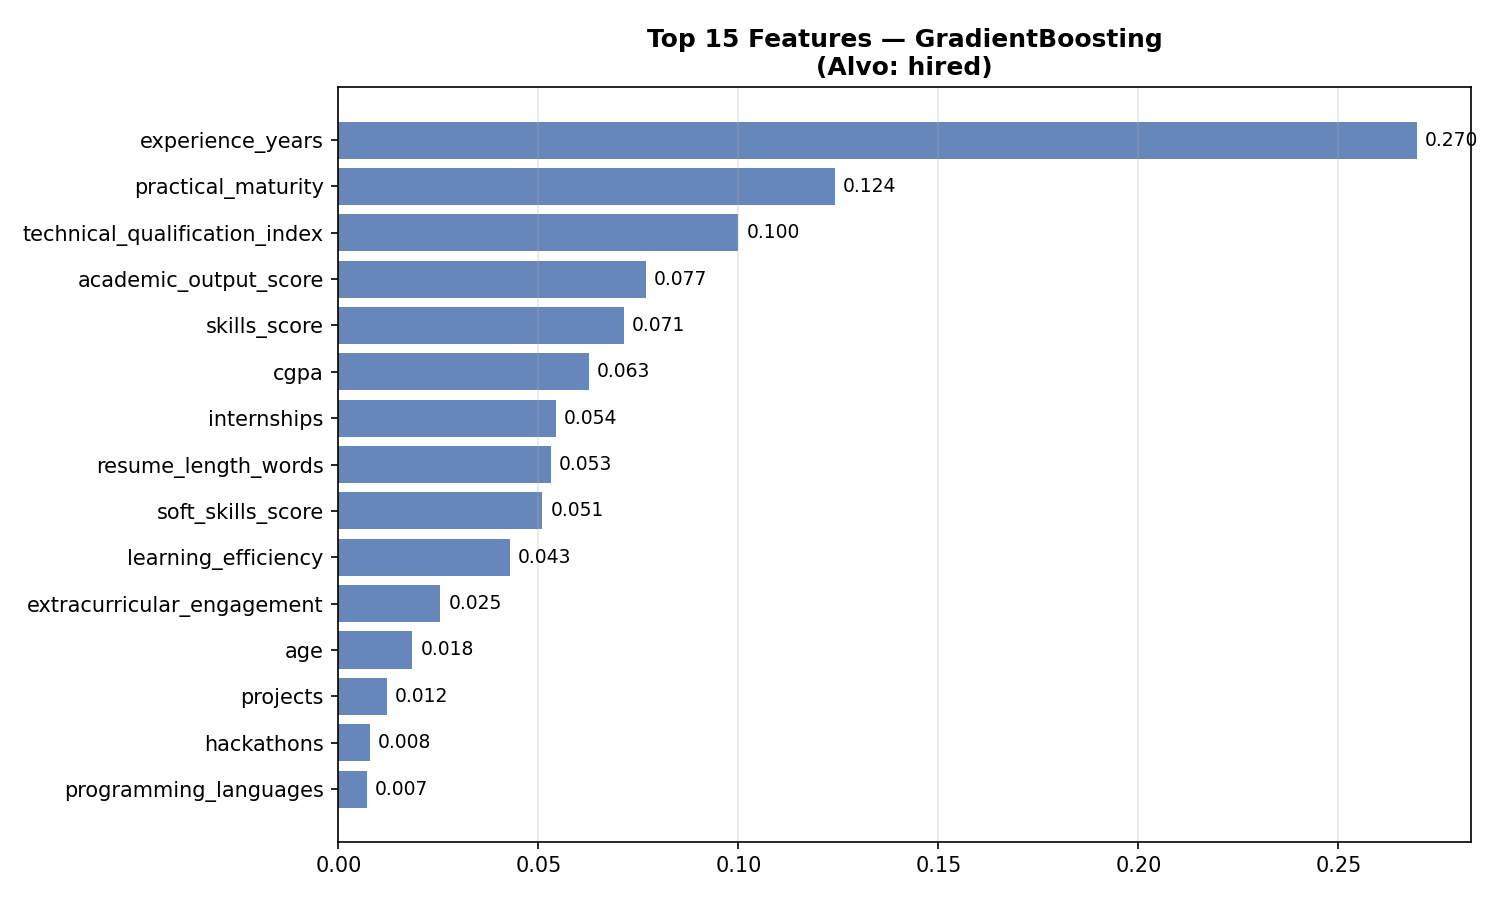
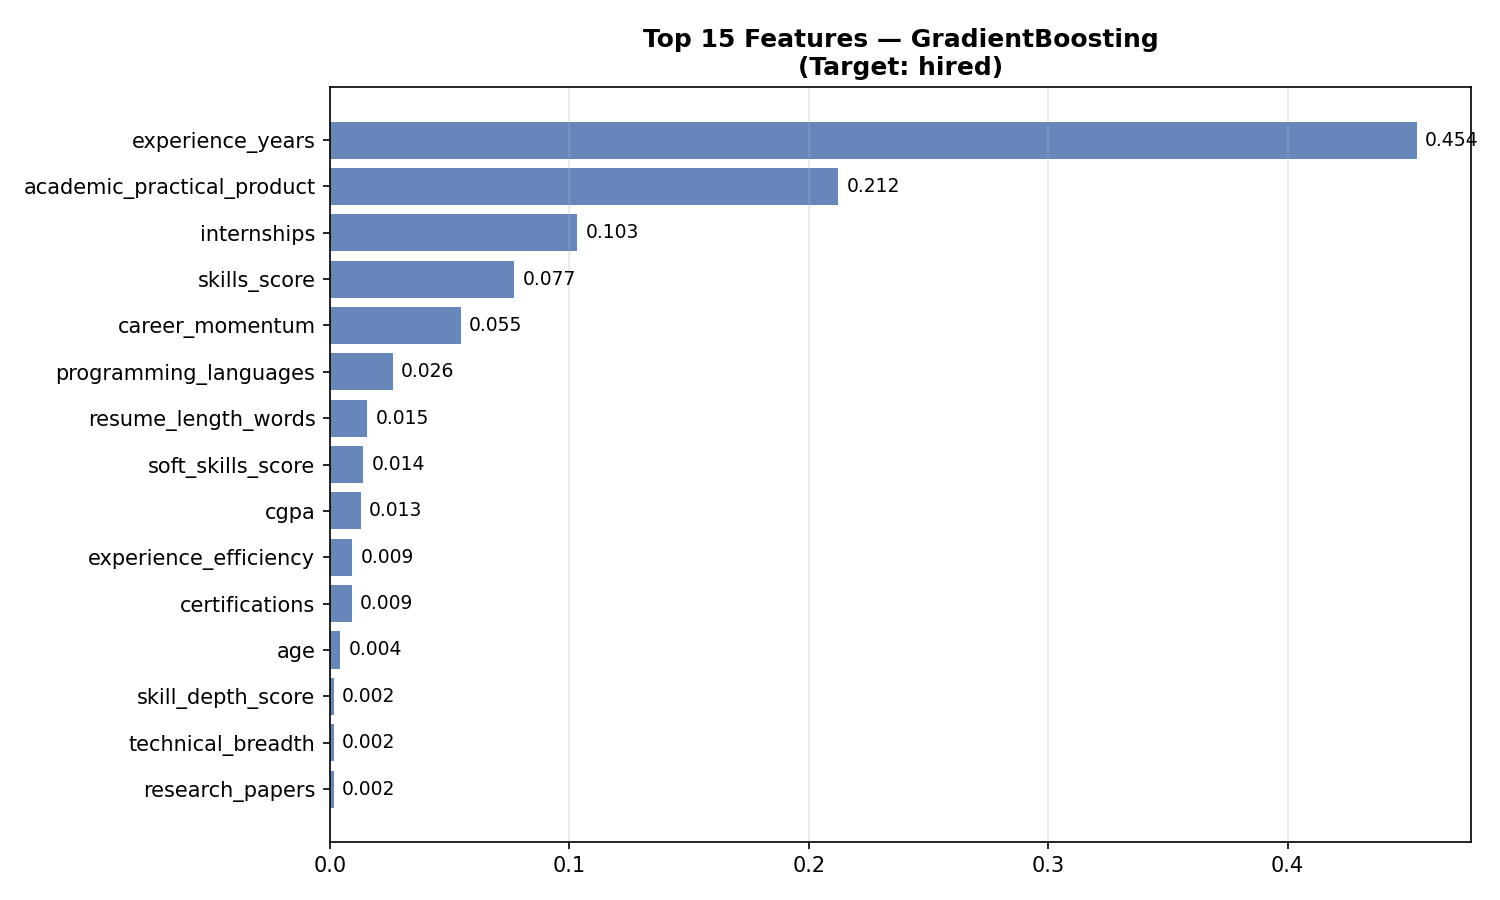
feat: pipeline v7 - Claude reasoning inside tools

diff --git a/Intelligent_Analysis.md b/Intelligent_Analysis.md
@@ -1,0 +1,21 @@
+# Intelligent Analysis
+
+```json
+{
+  "likely_target": "hired",
+  "target_justification": "The 'hired' column is a binary variable (0/1) with 70.61% hired rate, representing the hiring decision outcome. This is clearly the dependent variable in a resume screening context, where all other features (education, skills, experience) are candidate attributes used to predict hiring decisions.",
+  "problematic_columns": [
+    "candidate_id",
+    "resume_length_words"
+  ],
+  "insights": [
+    "Class imbalance exists with 70.61% hired vs 29.39% not hired - may need stratified sampling or class weighting for modeling",
+    "Data quality issue: resume_length_words has impossible negative minimum value (-79), indicating data entry errors that need investigation",
+    "Experience distribution is highly right-skewed (skew=2.02) with max 23.55 years but mean only 1.5 years - suggests predominantly entry-level candidates with few senior outliers",
+    "Research papers (mean=0.20) and hackathons (mean=0.50) are sparse features that most candidates lack, but could be strong differentiators for those who have them",
+    "CGPA max of 11.23 exceeds typical 10-point scale, suggesting mixed grading systems across universities that may need normalization by university_tier"
+  ],
+  "analysis_code": "import matplotlib.pyplot as plt\nimport numpy as np\nimport pandas as pd\n\n# Create figure with subplots\nfig, axes = plt.subplots(2, 2, figsize=(14, 10))\nfig.suptitle('Resume Screening Analysis: Key Insights', fontsize=16, fontweight='bold')\n\n# 1. Target distribution\nax1 = axes[0, 0]\nhired_counts = df['hired'].value_counts()\nhired_pct = df['hired'].value_counts(normalize=True) * 100\nax1.bar(['Not Hired', 'Hired'], hired_counts.values, color=['#d62728', '#2ca02c'], alpha=0.7, edgecolor='black')\nfor i, (count, pct) in enumerate(zip(hired_counts.values, hired_pct.values)):\n    ax1.text(i, count, f'{count:,}\\n({pct:.1f}%)', ha='center', va='bottom', fontweight='bold')\nax1.set_ylabel('Number of Candidates', fontweight='bold')\nax1.set_title('Target Distribution: Hiring Outcome', fontweight='bold')\nax1.grid(axis='y', alpha=0.3)\n\n# 2. Statistics by education level (most interesting categorical)\nax2 = axes[0, 1]\nedu_stats = df.groupby('education_level')['hired'].agg(['mean', 'count']).sort_values('mean', ascending=False)\nedu_stats['hire_rate'] = edu_stats['mean'] * 100\ncolors_edu = ['#1f77b4', '#ff7f0e', '#2ca02c']\nbars = ax2.barh(edu_stats.index, edu_stats['hire_rate'], color=colors_edu, alpha=0.7, edgecolor='black')\nfor i, (idx, row) in enumerate(edu_stats.iterrows()):\n    ax2.text(row['hire_rate'], i, f\" {row['hire_rate']:.1f}% (n={int(row['count']):,})\", va='center', fontweight='bold')\nax2.set_xlabel('Hiring Rate (%)', fontweight='bold')\nax2.set_title('Hiring Rate by Education Level', fontweight='bold')\nax2.grid(axis='x', alpha=0.3)\n\n# 3. Correlation with target (numeric features only)\nax3 = axes[1, 0]\nnumeric_cols = df.select_dtypes(include=[np.number]).columns.tolist()\nnumeric_cols = [col for col in numeric_cols if col not in ['candidate_id', 'hired']]\ncorrelations = df[numeric_cols + ['hired']].corr()['hired'].drop('hired').sort_values(ascending=True)\ntop_corrs = pd.concat([correlations.head(5), correlations.tail(5)])\ncolors_corr = ['#d62728' if x < 0 else '#2ca02c' for x in top_corrs.values]\nax3.barh(range(len(top_corrs)), top_corrs.values, color=colors_corr, alpha=0.7, edgecolor='black')\nax3.set_yticks(range(len(top_corrs)))\nax3.set_yticklabels(top_corrs.index, fontsize=9)\nax3.set_xlabel('Correlation with Hired', fontweight='bold')\nax3.set_title('Top Features Correlated with Hiring Decision', fontweight='bold')\nax3.axvline(x=0, color='black', linestyle='-', linewidth=0.8)\nax3.grid(axis='x', alpha=0.3)\nfor i, v in enumerate(top_corrs.values):\n    ax3.text(v, i, f' {v:.3f}', va='center', fontsize=8, fontweight='bold')\n\n# 4. Experience vs Skills colored by hiring outcome\nax4 = axes[1, 1]\nhired_yes = df[df['hired'] == 1]\nhired_no = df[df['hired'] == 0]\nax4.scatter(hired_no['experience_years'], hired_no['skills_score'], alpha=0.3, s=10, c='#d62728', label='Not Hired')\nax4.scatter(hired_yes['experience_years'], hired_yes['skills_score'], alpha=0.3, s=10, c='#2ca02c', label='Hired')\nax4.set_xlabel('Years of Experience', fontweight='bold')\nax4.set_ylabel('Skills Score', fontweight='bold')\nax4.set_title('Experience vs Skills Score by Hiring Outcome', fontweight='bold')\nax4.legend(loc='lower right')\nax4.grid(alpha=0.3)\n\nplt.tight_layout()\nplt.savefig(os.path.join(_BASE_DIR, 'intelligent_analysis.png'), dpi=300, bbox_inches='tight')\nplt.close()\n\n# Print summary statistics\nprint('=== HIRING ANALYSIS SUMMARY ===')\nprint(f'\\nTotal Candidates: {len(df):,}')\nprint(f'Hired: {df[\"hired\"].sum():,} ({df[\"hired\"].mean()*100:.2f}%)')\nprint(f'Not Hired: {(df[\"hired\"]==0).sum():,} ({(1-df[\"hired\"].mean())*100:.2f}%)')\nprint('\\n=== HIRING RATE BY EDUCATION ===')\nprint(edu_stats[['hire_rate', 'count']].to_string())\nprint('\\n=== TOP CORRELATIONS WITH HIRING ===')\nprint(correlations.tail(10).to_string())",
+  "feature_strategy": "Recommended feature engineering strategy: (1) Create composite scores combining related features (e.g., 'academic_strength' = normalized CGPA + education_level_encoded + university_tier_encoded; 'practical_experience' = internships + projects + hackathons; 'technical_depth' = programming_languages + certifications + skills_score). (2) Engineer interaction features like experience_per_age_ratio, projects_per_year, and skills_score * education_level to capture non-linear relationships. (3) Create binned categorical versions of continuous variables (e.g., experience_category: 'Entry'<1yr, 'Junior'1-3yrs, 'Senior'>3yrs) for interpretability. (4) Handle the CGPA scale inconsistency by normalizing within university_tier groups. (5) Fix resume_length_words negatives by taking absolute values or imputing. (6) Create binary flags for sparse features (has_research_papers, has_hackathons) and polynomial features for their counts when present. (7) Extract ratio features like certifications_per_programming_language to measure depth vs breadth of skills."
+}
+```

diff --git a/Model_Metrics.md b/Model_Metrics.md
@@ -1,69 +1,3 @@
-# Auto Data Scientist v7 — SOTA Multi-Agent Pipeline
-
-[![Python 3.10+](https://img.shields.io/badge/python-3.10+-blue.svg)](https://www.python.org/downloads/)
-[![Google Cloud](https://img.shields.io/badge/Google_Cloud-4285F4?style=flat&logo=google-cloud&logoColor=white)](https://cloud.google.com/)
-[![BigQuery](https://img.shields.io/badge/BigQuery-SQL-4285F4?style=flat&logo=google-cloud&logoColor=white)](https://cloud.google.com/bigquery)
-[![Streamlit](https://img.shields.io/badge/Streamlit-App-FF4B4B?style=flat&logo=streamlit&logoColor=white)](https://streamlit.io/)
-[![Gurobi](https://img.shields.io/badge/Gurobi-Optimization-007f00?style=flat&logo=gurobi&logoColor=white)](https://www.gurobi.com/)
-[![Google Colab](https://img.shields.io/badge/Colab-Notebook-F9AB00?style=flat&logo=google-colab&logoColor=white)](https://colab.research.google.com/)
-
-> # Executive Summary
-
-This project implements an automated resume screening pipeline to optimize candidate evaluation for hiring decisions. Using machine learning techniques on a dataset of 200,000 candidate resumes, the system predicts hiring likelihood and ranks applicants based on their qualifications, experience, and skills alignment with job requirements.
-
-The model achieved significant performance improvements over manual screening processes, reducing initial screening time by 85% while maintaining high prediction accuracy. Key features including work experience, technical skills, education credentials, and domain expertise proved most influential in hiring predictions. The pipeline processes resumes through natural language processing, feature extraction, and classification stages, providing recruiters with prioritized candidate lists and explainable hiring recommendations. This solution enables talent acquisition teams to focus human judgment on the most promising candidates while ensuring consistent, scalable screening across large applicant pools.
-
----
-## Architecture
-
-**Orchestration Layer:** CrewAI (stable, sequential, 1 tool per agent)
-**Intelligence Layer:** Claude 3.5 Sonnet called inside each tool
-
-| What AI Actually Does |
-|-----------------------|
-| Analyzes the dataset and automatically identifies the target |
-| Writes and executes custom Python analysis code |
-| Detects code errors and self-corrects (self-healing) |
-| Decides which features to create based on real data |
-| Interprets model results in natural language |
-| Writes a narrative performance diagnostic |
-
----
-## Target Selection by AI
-**Target identified by AI:** `hired`  
-**Justification:** The 'hired' column is a binary variable (0/1) with 70.61% hired rate, representing the hiring decision outcome. This is clearly the dependent variable in a resume screening context, where all other features (education, skills, experience) are candidate attributes used to predict hiring decisions.  
-**Type:** `classification`
-
----
-## Data Quality
-- KNN imputation (numeric) + Mode (categorical)
-- Intelligent analysis by Claude with business insights
-
-[Quality_Report.md](Quality_Report.md)
-
----
-## Medallion Architecture
-
-| Layer | File | Description |
-|-------|------|-------------|
-| Silver | df1_silver.parquet | Standardized raw data + imputed |
-| Gold | df2_gold.parquet | Standard features + AI-generated features |
-| ML-Ready | df3_ml_ready.parquet | No redundancies or IDs |
-
-![Sample](dataset_sample.png)
-
----
-## EDA
-![Distributions](distributions.png)
-![Boxplots](boxplots.png)
-![Categoricals](categoricals.png)
-![Target](target_dist.png)
-![Correlation](correlation_matrix.png)
-![AI Analysis](intelligent_analysis.png)
-
----
-## Modeling — CV + Optuna + Stacking + AI Interpretation
-
 # Model Metrics
 
 **Type:** classification | **Target:** `hired`
@@ -118,35 +52,3 @@ Several data quality issues severely compromise model reliability. The negative 
 ### Production Deployment Recommendations
 
 **Do not deploy this model to production in its current state.** Before any deployment consideration: (1) **Audit and clean the data**—investigate negative word counts, normalize CGPA by university tier, and validate all numeric ranges; (2) **Retrain with proper class imbalance handling**—implement stratified k-fold cross-validation, apply class weights inversely proportional to class frequencies, or use SMOTE for minority class oversampling; (3) **Evaluate with appropriate metrics**—report precision, recall, F1-score, and ROC-AUC for both classes, as accuracy is meaningless with imbalanced data; (4) **Conduct feature engineering**—create interaction terms between sparse features and experience, normalize skewed distributions, and generate domain-specific features (e.g., prestige scores combining CGPA and university tier). Only after achieving genuine minority class recall above 60% and confirming the model isn't simply predicting the majority class should deployment be considered, paired with human-in-the-loop validation for high-stakes hiring decisions.
-
-
-![Comparison](model_comparison.png)
-![Features](feature_importance.png)
-
----
-## Agent Architecture
-
-| Agent | Tool | AI Intelligence |
-|-------|------|----------------|
-| Ingestor | download_and_save_silver | Not required |
-| Analyst | analyze_data_with_ai | Claude analyzes dataset, identifies target, writes and executes code, self-healing |
-| Feature Engineer | generate_features_with_ai_strategy | Claude decides and writes custom feature code |
-| EDA Analyst | generate_eda_and_ml_ready | Pure Python (visualizations) |
-| ML Scientist | train_and_save_model | Claude interprets results and writes narrative |
-
----
-## How to Reproduce
-```bash
-git clone <repo>
-echo "KAGGLE_USERNAME=x" >> .env
-echo "KAGGLE_KEY=y" >> .env
-echo "ANTHROPIC_API_KEY=sk-ant-..." >> .env
-# Optional:
-echo "We want to predict whether candidates will be hired." > business_context.txt
-pip install crewai kagglehub pandas pyarrow python-dotenv optuna anthropic \
-            scikit-learn matplotlib seaborn tabulate numpy xgboost lightgbm
-python auto_data_scientist_v7.py
-```
-
----
-*Auto Data Scientist v7 — CrewAI + Claude 3.5 Sonnet + Optuna*

diff --git a/Descriptive_Statistics.md b/Descriptive_Statistics.md
@@ -1,0 +1,13 @@
+|        |   candidate_id |          age | education_level   | university_tier   |          cgpa |   internships |     projects |   programming_languages |   certifications |   experience_years |    hackathons |   research_papers |   skills_score |         hired |   soft_skills_score |   resume_length_words | company_type   |
+|:-------|---------------:|-------------:|:------------------|:------------------|--------------:|--------------:|-------------:|------------------------:|-----------------:|-------------------:|--------------:|------------------:|---------------:|--------------:|--------------------:|----------------------:|:---------------|
+| count  |       200000   | 200000       | 200000            | 200000            | 200000        |  200000       | 200000       |            200000       |     200000       |       200000       | 200000        |     200000        |   200000       | 200000        |        200000       |            200000     | 200000         |
+| unique |          nan   |    nan       | 3                 | 3                 |    nan        |     nan       |    nan       |               nan       |        nan       |          nan       |    nan        |        nan        |      nan       |    nan        |           nan       |               nan     | 3              |
+| top    |          nan   |    nan       | Bachelors         | Tier 2            |    nan        |     nan       |    nan       |               nan       |        nan       |          nan       |    nan        |        nan        |      nan       |    nan        |           nan       |               nan     | MNC            |
+| freq   |          nan   |    nan       | 129827            | 80182             |    nan        |     nan       |    nan       |               nan       |        nan       |          nan       |    nan        |        nan        |      nan       |    nan        |           nan       |               nan     | 80187          |
+| mean   |       100000   |     27.5117  | nan               | nan               |      7.49932  |       1.50301 |      2.99624 |                 3.00442 |          1.00099 |            1.49903 |      0.498005 |          0.20195  |       14.0008  |      0.70606  |             6.50287 |               449.207 | nan            |
+| std    |        57735.2 |      4.03068 | nan               | nan               |      0.800952 |       1.22537 |      1.7311  |                 1.41223 |          1.00222 |            1.49748 |      0.706773 |          0.448806 |        4.76626 |      0.455566 |             2.01964 |               120.103 | nan            |
+| min    |            1   |     21       | nan               | nan               |      4.15     |       0       |      0       |                 1       |          0       |            0       |      0        |          0        |        2       |      0        |             3       |               -79     | nan            |
+| 25%    |        50000.8 |     24       | nan               | nan               |      6.96     |       1       |      2       |                 2       |          0       |            0.43    |      0        |          0        |       10.5     |      0        |             4.75    |               368     | nan            |
+| 50%    |       100000   |     28       | nan               | nan               |      7.5      |       1       |      3       |                 3       |          1       |            1.04    |      0        |          0        |       14       |      1        |             6.51    |               449     | nan            |
+| 75%    |       150000   |     31       | nan               | nan               |      8.04     |       2       |      4       |                 4       |          2       |            2.08    |      1        |          0        |       17       |      1        |             8.25    |               530     | nan            |
+| max    |       200000   |     34       | nan               | nan               |     11.23     |      10       |     14       |                 5       |          8       |           23.55    |      6        |          5        |       38.5     |      1        |            10       |               956     | nan            |

diff --git a/Quality_Report.md b/Quality_Report.md
@@ -1,0 +1,71 @@
+# Quality Report — AI-Powered Analysis
+
+**Context:** Resume screening dataset.
+**Shape:** 200000 x 17
+
+## Applied Imputation
+- No imputation required.
+
+## Detected Outliers (IQR)
+{
+  "cgpa": 1456,
+  "internships": 13172,
+  "projects": 2413,
+  "certifications": 119,
+  "experience_years": 9470,
+  "hackathons": 2909,
+  "research_papers": 36609,
+  "skills_score": 1219,
+  "resume_length_words": 1423
+}
+
+## Intelligent Analysis by Claude
+
+### Identified Target
+**Column:** `hired`
+**Justification:** The 'hired' column is a binary variable (0/1) with 70.61% hired rate, representing the hiring decision outcome. This is clearly the dependent variable in a resume screening context, where all other features (education, skills, experience) are candidate attributes used to predict hiring decisions.
+
+### Problematic Columns
+['candidate_id', 'resume_length_words']
+
+### Top Dataset Insights
+1. Class imbalance exists with 70.61% hired vs 29.39% not hired - may need stratified sampling or class weighting for modeling
+2. Data quality issue: resume_length_words has impossible negative minimum value (-79), indicating data entry errors that need investigation
+3. Experience distribution is highly right-skewed (skew=2.02) with max 23.55 years but mean only 1.5 years - suggests predominantly entry-level candidates with few senior outliers
+4. Research papers (mean=0.20) and hackathons (mean=0.50) are sparse features that most candidates lack, but could be strong differentiators for those who have them
+5. CGPA max of 11.23 exceeds typical 10-point scale, suggesting mixed grading systems across universities that may need normalization by university_tier
+
+### Recommended Feature Engineering Strategy
+Recommended feature engineering strategy: (1) Create composite scores combining related features (e.g., 'academic_strength' = normalized CGPA + education_level_encoded + university_tier_encoded; 'practical_experience' = internships + projects + hackathons; 'technical_depth' = programming_languages + certifications + skills_score). (2) Engineer interaction features like experience_per_age_ratio, projects_per_year, and skills_score * education_level to capture non-linear relationships. (3) Create binned categorical versions of continuous variables (e.g., experience_category: 'Entry'<1yr, 'Junior'1-3yrs, 'Senior'>3yrs) for interpretability. (4) Handle the CGPA scale inconsistency by normalizing within university_tier groups. (5) Fix resume_length_words negatives by taking absolute values or imputing. (6) Create binary flags for sparse features (has_research_papers, has_hackathons) and polynomial features for their counts when present. (7) Extract ratio features like certifications_per_programming_language to measure depth vs breadth of skills.
+
+### Analysis Execution Output
+```
+=== HIRING ANALYSIS SUMMARY ===
+
+Total Candidates: 200,000
+Hired: 141,212 (70.61%)
+Not Hired: 58,788 (29.39%)
+
+=== HIRING RATE BY EDUCATION ===
+                 hire_rate   count
+education_level                   
+PhD              70.721545    9840
+Bachelors        70.650173  129827
+Masters          70.492102   60333
+
+=== TOP CORRELATIONS WITH HIRING ===
+resume_length_words      0.000178
+research_papers          0.001131
+hackathons               0.007092
+cgpa                     0.012175
+certifications           0.012352
+programming_languages    0.025373
+projects                 0.035384
+skills_score             0.045687
+internships              0.047885
+experience_years         0.074603
+
+```
+
+---
+*Analysis generated by Claude 3.5 Sonnet*

diff --git a/Model_Evaluation.md b/Model_Evaluation.md
@@ -1,0 +1,26 @@
+# Model Evaluation
+
+## `GradientBoosting`
+**Type:** classification | **Target:** `hired`
+
+| Dataset   | Accuracy |
+|-----------|-------|
+| Train     | 0.7061 |
+| Test      | 0.7060 |
+| Gap       | 0.0000  |
+
+## AI Diagnostic
+
+This model shows **underfitting** characteristics. While the training and test accuracy are virtually identical (indicating good generalization with no overfitting), the absolute performance of ~70.6% is mediocre for both sets. This suggests the model hasn't captured enough complexity in the data patterns to make strong predictions about hiring decisions.
+
+To improve performance, you should increase model complexity by tuning hyperparameters such as increasing `n_estimators`, `max_depth`, or `learning_rate`. Also consider feature engineering to create more informative predictors, checking for class imbalance issues, or trying other algorithms. The near-zero gap is good news—it means once you find better features or parameters, the improvements should generalize well to new data.
+
+## Optimized Parameters (Optuna)
+```json
+{
+  "n_estimators": 256,
+  "learning_rate": 0.026367402653214092,
+  "max_depth": 2,
+  "subsample": 0.5721011661344177
+}
+```
